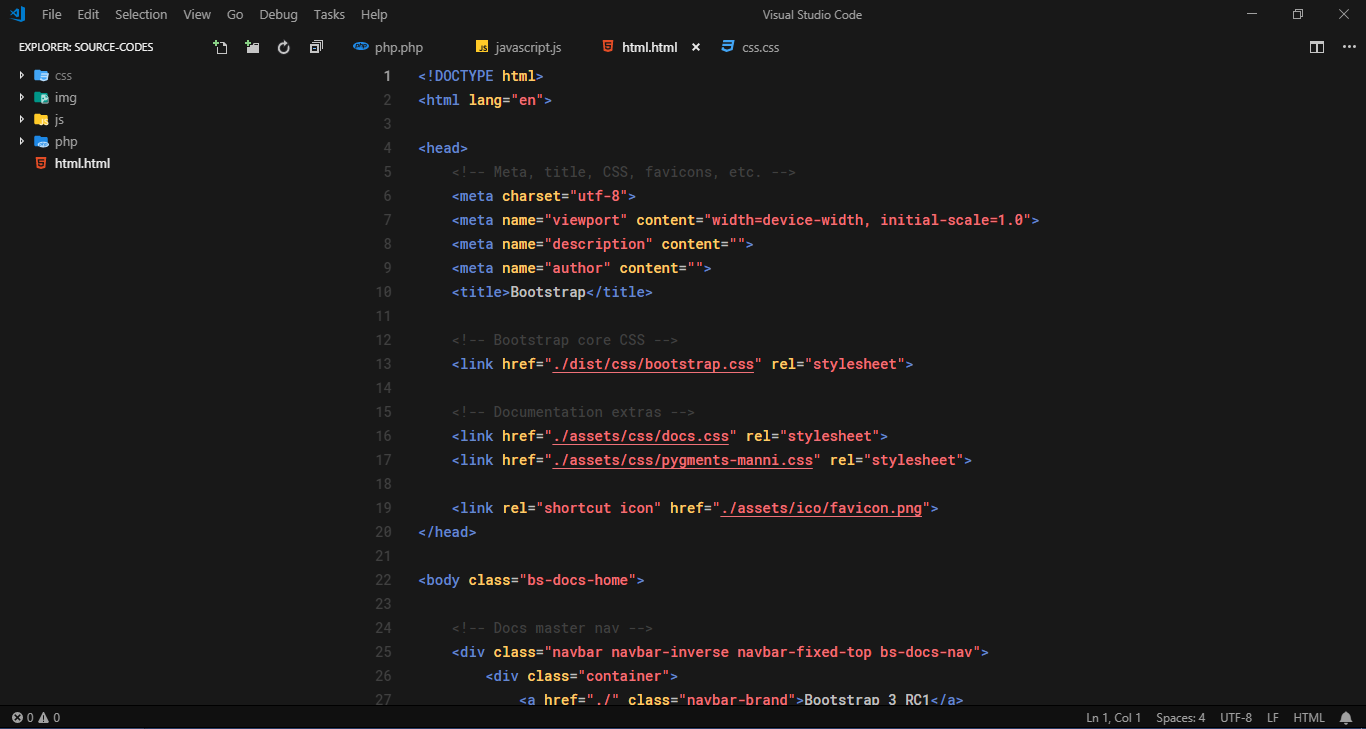
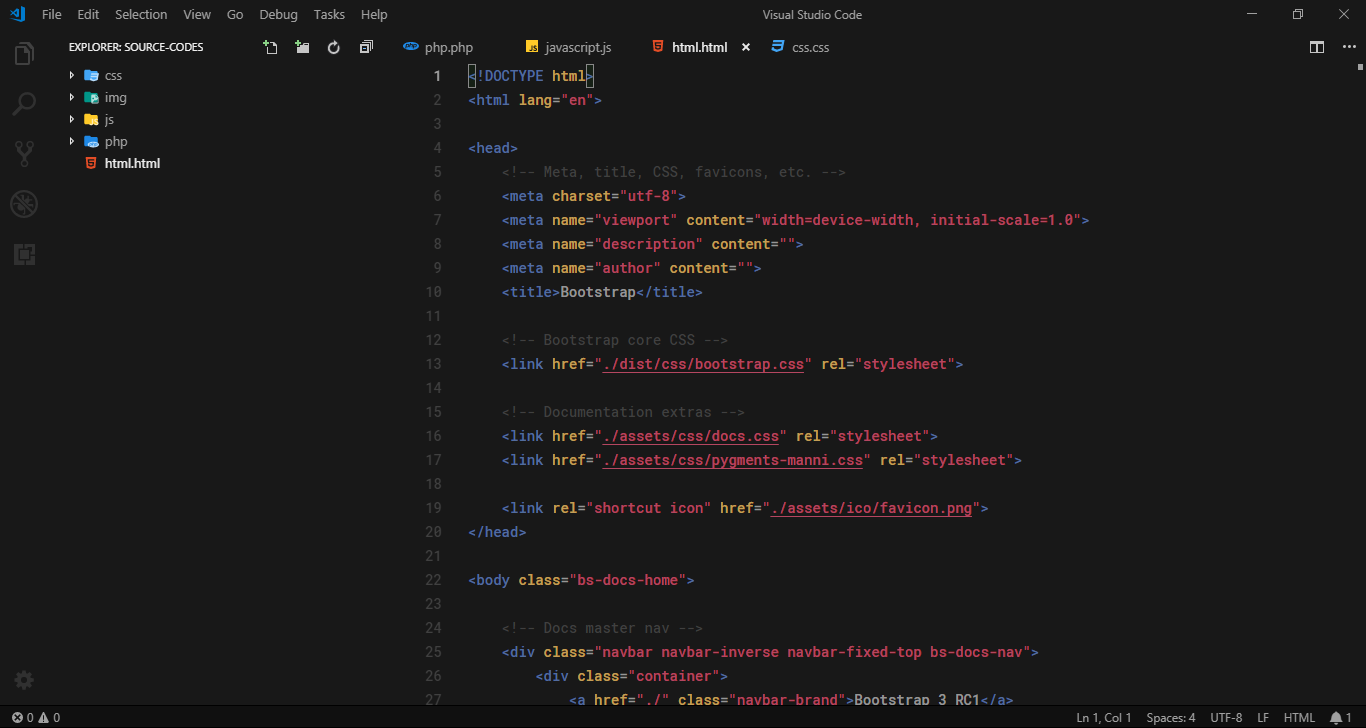
Version 1.0 release

diff --git a/CHANGELOG.md b/CHANGELOG.md
@@ -1,5 +1,11 @@
 ## Change Log
 
+### v1.0.0
+- Added new syntax color
+- Updated color values
+- Replaced icon image
+- Official release of version 1.0.0
+
 ### v0.1.3
 - Minimal adjustments to colors
 
